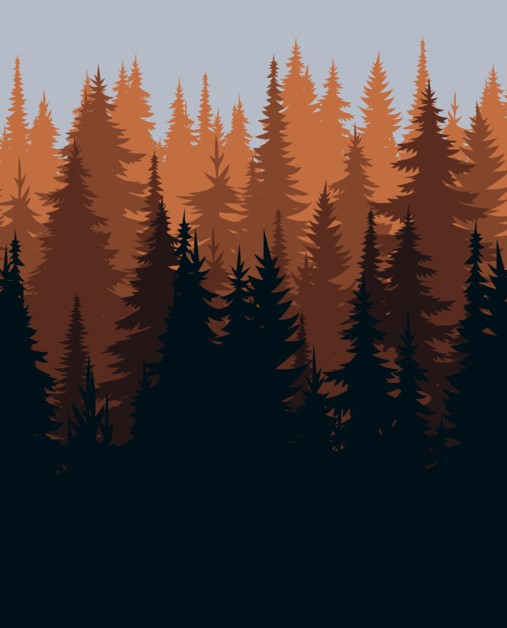
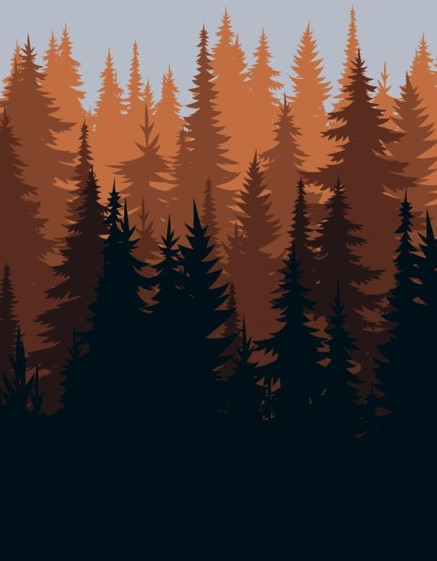
A few minor fixes before launching.

diff --git a/src/content/pages/contact.html b/src/content/pages/contact.html
@@ -9,7 +9,7 @@ permalink: "/contact-get-your-website/"
 {% block head %}
     <link rel="stylesheet" href="/assets/css/contact.css">
     <link rel="preload" as="image" href="{% getUrl "/assets/images/redpinetreebackground.jpg" | resize({ width: 640, height: 600 }) | avif %}"/>
-    <link rel="preload" as="image" href="{% getUrl "/assets/images/edpinetreebackground.jpg" | resize({ width: 576, height: 640 }) | avif %}"/>
+    <link rel="preload" as="image" href="{% getUrl "/assets/images/redpinetreebackground.jpg" | resize({ width: 576, height: 640 }) | avif %}"/>
 {% endblock %}
 
 {% block body %}
@@ -34,7 +34,7 @@ permalink: "/contact-get-your-website/"
             <source media="(max-width: 600px)" srcset="{% getUrl "/assets/images/redpinetreebackground.jpg" | resize({ width: 640, height: 600 }) | jpeg %}" type="image/jpeg">
             <!--Tablet Image-->
             <source media="(max-width: 1024px)" srcset="{% getUrl "/assets/images/redpinetreebackground.jpg" | resize({ width: 2048, height: 942 }) | avif %}" type="image/avif">
-            <source media="(max-width: 1024px)" srcset="{% getUrl "/assets/images/redpinetreebackground/.jpg" | resize({ width: 2048, height: 942 }) | webp %}" type="image/webp">
+            <source media="(max-width: 1024px)" srcset="{% getUrl "/assets/images/redpinetreebackground.jpg" | resize({ width: 2048, height: 942 }) | webp %}" type="image/webp">
             <source media="(max-width: 1024px)" srcset="{% getUrl "/assets/images/redpinetreebackground.jpg" | resize({ width: 2048, height: 942 }) | jpeg %}" type="image/jpeg">
             <!--Desktop Image-->
             <source media="(min-width: 1024px)" srcset="{% getUrl "/assets/images/redpinetreebackground.jpg" | resize({ width: 2500, height: 628 }) | avif %}" type="image/avif">
@@ -56,17 +56,19 @@ permalink: "/contact-get-your-website/"
                     <h2 class="cs-title">Get in Touch</h2>
                     <p class="cs-text">
 Send me an e-mail or text specifying the site package you are interested in, name, business, business type, and everything you wish to have in a site! I will respond within 48 hours!
-<br><br>Once contact form is recieved, I will send over a quick discovery questionnaire to grab the most important aspects of your business. From there I handle all technical heavy lifting while you stay focused on your business.
+<br><br>Once contact form is received, I will send over a quick discovery questionnaire to grab the most important aspects of your business. From there I handle all technical heavy lifting while you stay focused on your business.
                     </p>
                 </div>
-                <form id="cs-form-265" name="Contact Form" method="post">
+                <form id="cs-form-265" name="Contact Form" method="post" data-netlify="true" data-netlify-honeypot="bot-field">
+    <input type="hidden" name="form-name" value="Contact Form">
+    <p hidden><label>Leave this empty: <input name="bot-field"></label></p>
                     <label>
                         Name
                         <input required type="text" id="name-265" name="name" placeholder="Name">
                     </label>
                     <label>
                         Email
-                        <input required type="text" id="email-265" name="email" placeholder="Email">
+                        <input required type="email" id="email-265" name="email" placeholder="Email">
                     </label>
                     <label>
                         Phone

diff --git a/src/index.html b/src/index.html
@@ -52,7 +52,7 @@ tags: "sitemap" # content/content.json will make sure that all pages in content/
     <picture class="cs-background">
         <source media="(max-width: 600px)" srcset="/assets/images/pinetrees.jpg">
         <source media="(min-width: 601px)" srcset="/assets/images/redpinetreebackground.jpg">
-<img decoding="async" src="/assets/images/pinetrees.jpg" alt="abstract background" width="2250" height="1500" aria-hidden="true">
+<img decoding="async" src="/assets/images/pinetrees.jpg" alt="pine tree background for Red Moon Web Design website" width="2250" height="1500" aria-hidden="true">
     </picture>
     <!-- ============================================================ -->
 <!-- Paste this INSIDE any section you want the night scene in.   -->
@@ -101,10 +101,10 @@ He has gone above and beyond to revamp our website making it user friendly, more
         <div class="cs-image-group">
             <picture class="cs-background">
                 <!--Mobile Image-->
-                <source media="(max-width: 600px)" srcset="/assets/images/Jerrywind.jpg">
+                <source media="(max-width: 600px)" srcset="/assets/images/Jerrywind2.jpg">
                 <!--Tablet and above Image-->
                 <source media="(min-width: 601px)" srcset="/assets/images/Jerrywind.jpg">
-                <img loading="lazy" decoding="async" src="/assets/images/Jerrywind.jpg" alt="people" width="605" height="690">
+                <img loading="lazy" decoding="async" src="/assets/images/Jerrywind.jpg" alt="Jerad (Jerry) of Red Moon Web Design at Amon G. Carter Lake in Bowie, TX" width="605" height="690">
             </picture>
             <div class="cs-box">
                 <img class="cs-box-icon" loading="lazy" decoding="async" src="https://csimg.nyc3.cdn.digitaloceanspaces.com/Icons/gear-white.svg" alt="people" width="60" height="60">
@@ -176,7 +176,7 @@ SEO ready from day 1               </li>
             <span class="cs-topper">Services</span>
             <h2 class="cs-title">Web Services for Texas Businesses</h2>
             <p class="cs-text">
-                Red Moon Web Design offers web design and development services for contractors, sole practitioners, home service providers, and trades. Hand-coded websites, a human, and unlimited edits avilable on every tier. No chatbots, no page builders.
+                Red Moon Web Design offers web design and development services for contractors, sole practitioners, home service providers, and trades. Hand-coded websites, a human, and unlimited edits available on every tier. No chatbots, no page builders.
             </p>
         </div>
         <ul class="cs-card-group">
